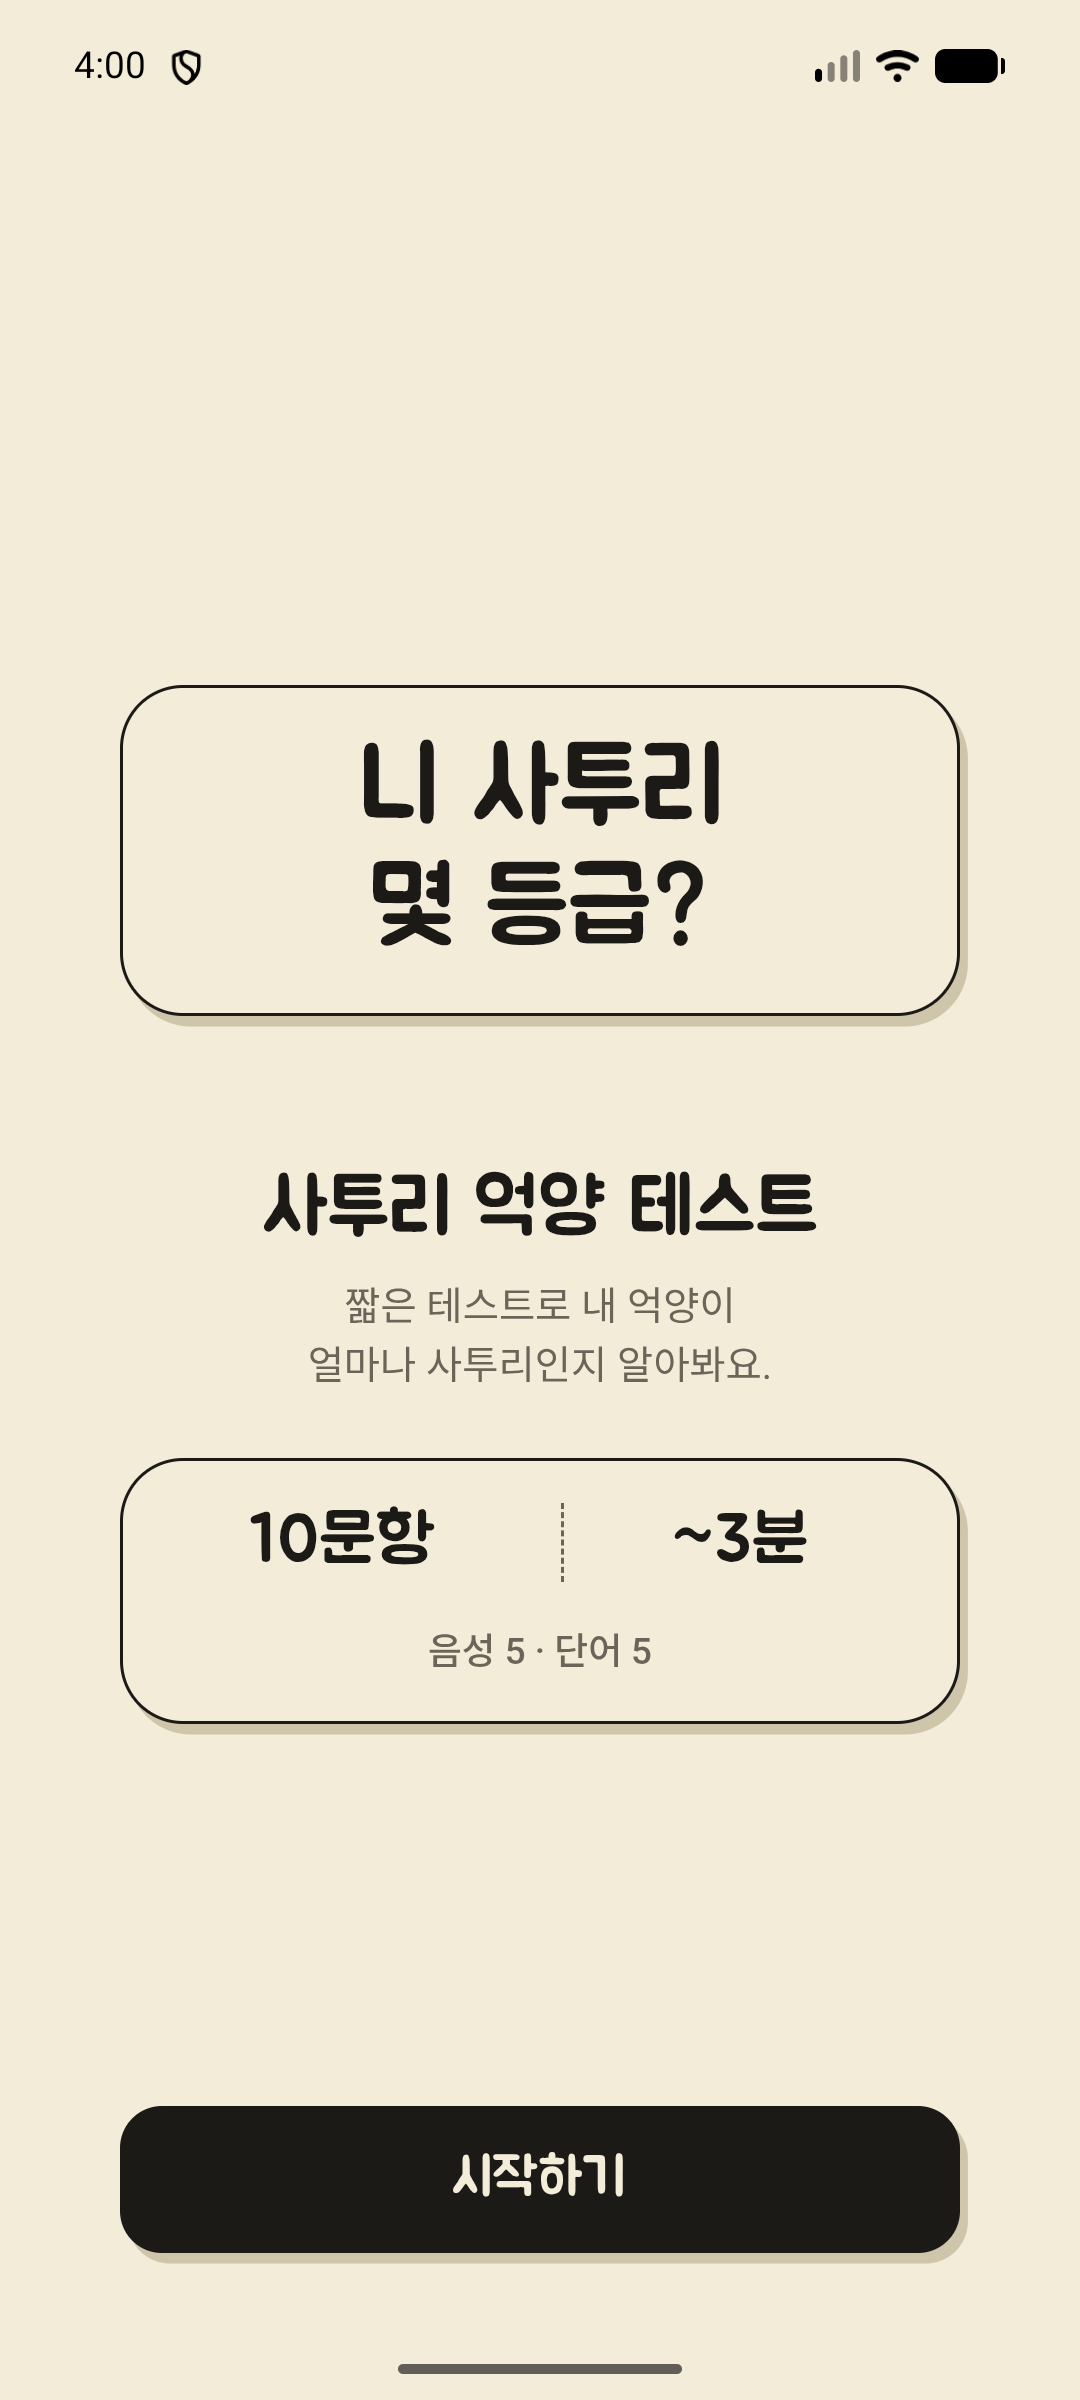
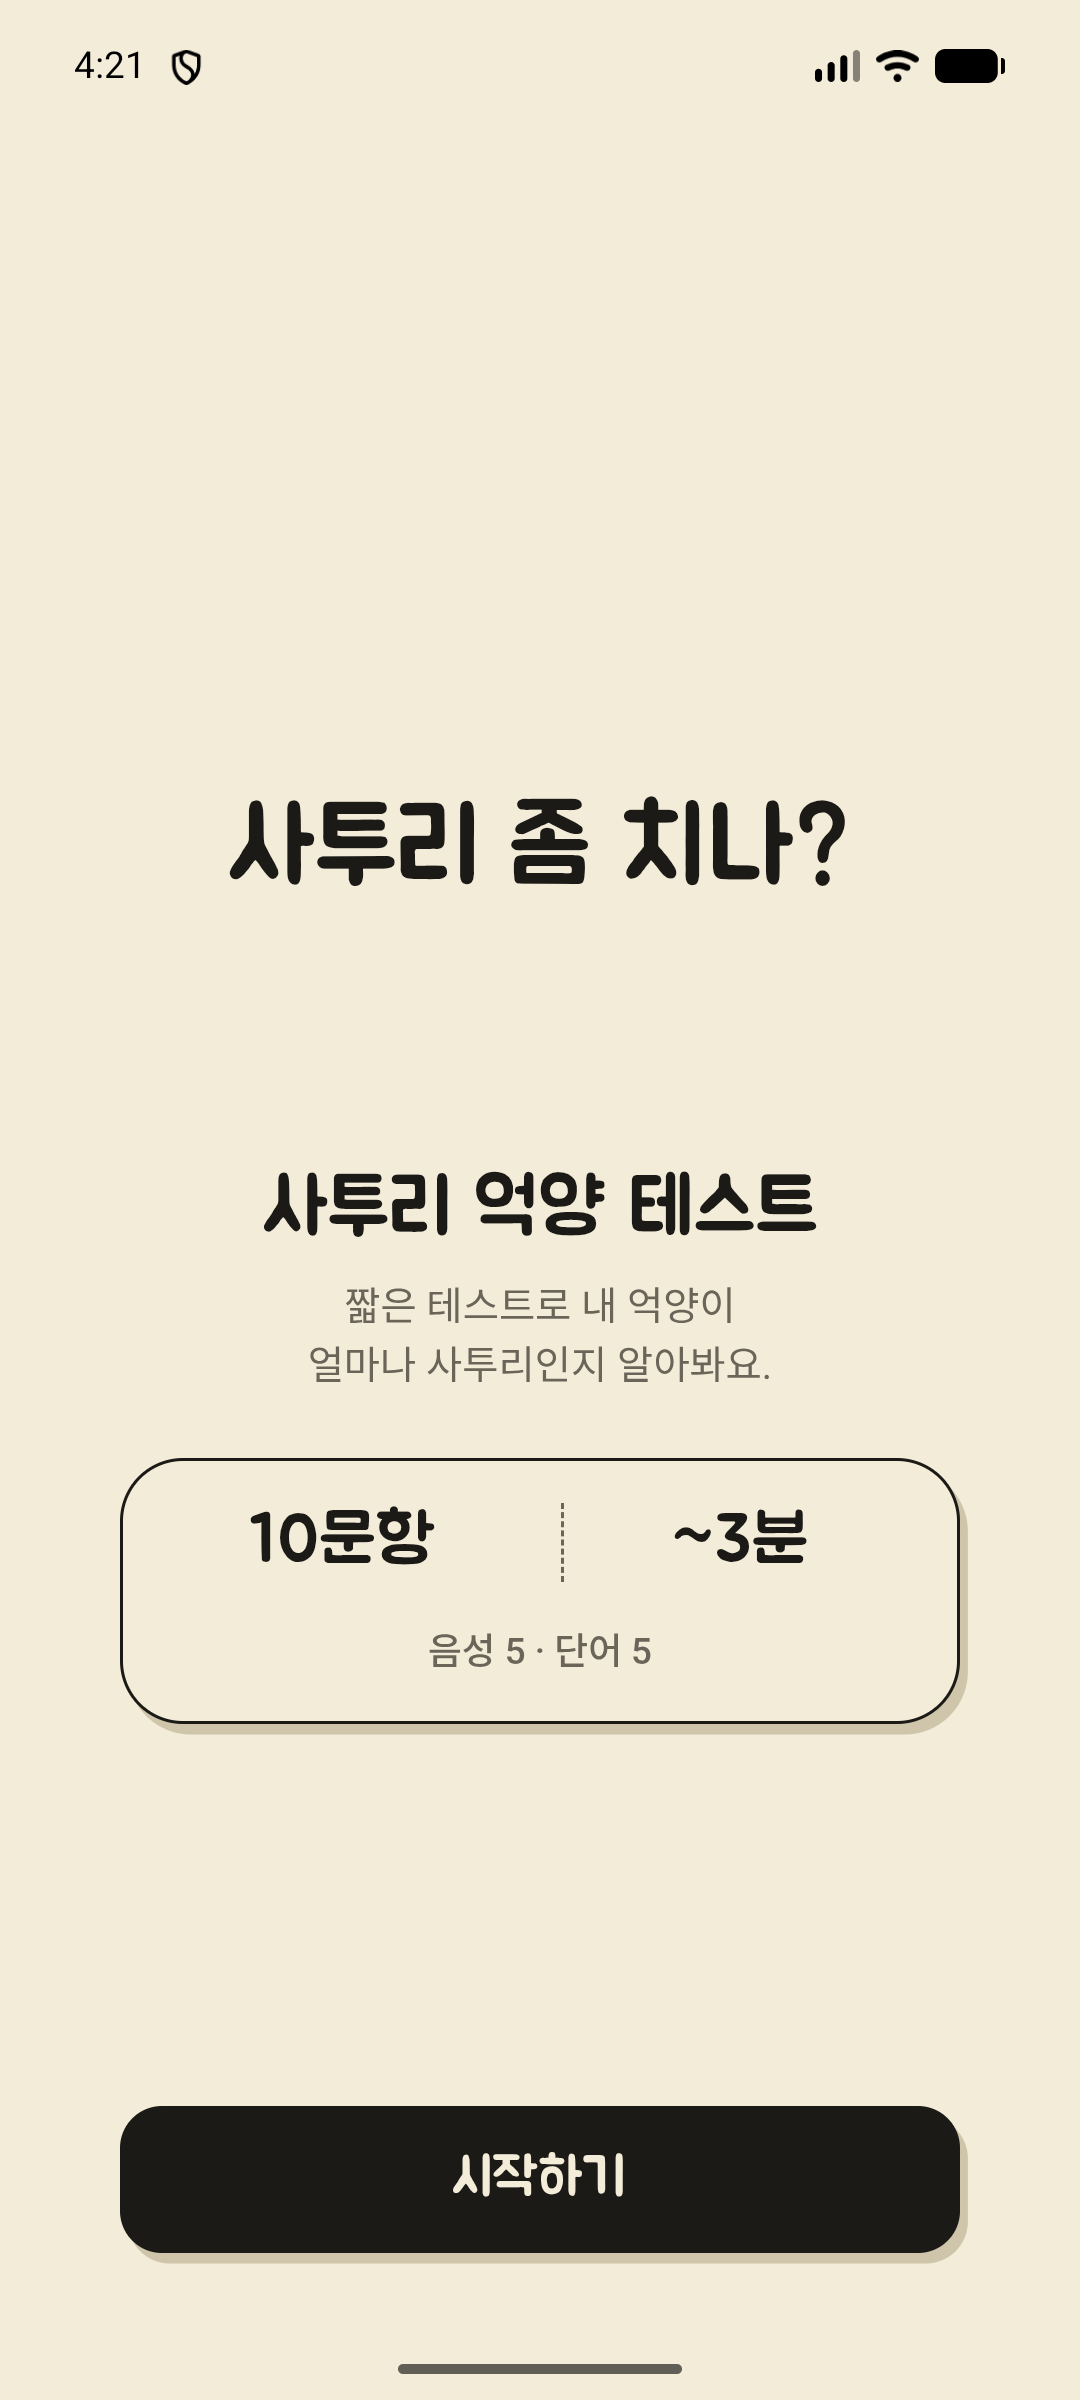
KAN-178 텍스트 히어로 문구·형태 조정 - "사투리 좀 치나?", 종이 조각 테두리 제거, Play 인트로 캡션 교체
- 인트로 히어로 문구 변경, .text-hero에서 테두리·그림자·면 제거(잉크 글자만)
- Play 스크린샷 01-intro 캡션이 화면 문구와 겹쳐 "3분이면 끝나는 사투리 테스트"로 교체
- 캡션 구분자는 슬래시 - Jua에 가운뎃점이 없어 두부로 그려졌다. build.py에 글리프 검사 추가
- 인트로 원본 캡처(Android·iOS) 재촬영, 프레임 재생성

Claude-Session: https://claude.ai/code/session_01Nud2Q8pYYmbEKkf6aeyY5Q

diff --git a/web/src/ui/components.css b/web/src/ui/components.css
@@ -289,7 +289,7 @@
  * 요소가 오르내리지 않는다.
  *
  * 인트로·대기 화면은 그림 대신 `.text-hero`가 든다 (KAN-178). 슬롯 높이를 건드리지 않은
- * 것은 의도다 — 글자 조각이 그림보다 낮아도 아래 제목·카드는 있던 자리에 그대로 남는다.
+ * 것은 의도다 — 글자 한 줄이 그림보다 낮아도 아래 제목·카드는 있던 자리에 그대로 남는다.
  */
 .illustration {
   display: flex;
@@ -307,24 +307,20 @@
 }
 
 /*
- * 그림 자리에 서는 글자 한 줄 (KAN-178). 종이 조각 한 장이다 — 테두리 1.5px·크림 면·오프셋
- * 그림자는 대사 카드(`.prompt-card`)와 같은 값을 쓴다. 이 화면에서 새로 만든 모양이 아니라
- * 이미 있는 종이의 두께를 그대로 빌려 와야 한 화면에 종이가 두 종류로 보이지 않는다.
+ * 그림 자리에 서는 글자 한 줄 (KAN-178). 처음에는 대사 카드와 같은 종이 조각(테두리 1.5px·
+ * 크림 면·오프셋 그림자)에 얹었는데, 한 화면에 종이가 두 장 겹쳐 보였다 — 바로 아래 대사
+ * 카드와 같은 두께라 히어로가 카드의 예고편처럼 읽혔다. 면을 걷어내고 잉크 글자만 남긴다.
  *
  * Jua 40(`--text-display`)은 팔레트에서 가장 큰 글자다. 바로 아래 제목이 30·26이라
  * 이보다 작으면 히어로가 아니라 제목이 둘인 화면이 된다.
  *
- * `keep-all`은 한국어에서 필수다 — 기본값이면 "등급?"이 낱말 가운데서 잘린다. `balance`는
- * 두 줄로 넘어갈 때 줄 길이를 맞춘다("니 사투리 / 몇 등급?"). 지원하지 않는 브라우저는
- * 평범하게 흘려 담을 뿐이라 깨지지 않는다.
+ * `keep-all`은 한국어에서 필수다 — 기본값이면 낱말 가운데서 잘린다. `balance`는 두 줄로
+ * 넘어갈 때 줄 길이를 맞춘다. 지원하지 않는 브라우저는 평범하게 흘려 담을 뿐이라 깨지지
+ * 않는다. 좌우 여백만 남긴 것은 긴 문구가 화면 가장자리에 붙지 않게 하려는 것이다.
  */
 .text-hero {
   margin: 0;
-  padding: var(--space-4) var(--space-6);
-  border: 1.5px solid var(--color-border);
-  border-radius: var(--radius-xl);
-  background: var(--color-card);
-  box-shadow: var(--shadow-prompt);
+  padding: 0 var(--space-6);
   font-family: var(--font-display);
   font-size: var(--text-display);
   font-weight: var(--weight-normal);

diff --git a/web/src/intro/IntroScreen.tsx b/web/src/intro/IntroScreen.tsx
@@ -110,11 +110,11 @@ export function IntroScreen({
       <div className="screen__body">
         {/*
           종이 일러스트(확성기를 든 사람)를 걷어내고 글자를 세웠다 (KAN-178). 그림은 이 앱이
-          무엇을 하는 곳인지 말하지 않았다 — 첫 화면에서 사용자가 알아야 할 것은 "여기서
-          내 사투리 등급이 나온다"이고, 그건 그리는 것보다 적는 편이 빠르다.
+          무엇을 하는 곳인지 말하지 않았다 — 첫 화면은 사용자에게 말을 걸어야 하고, 그건
+          그리는 것보다 적는 편이 빠르다.
         */}
         <div className="illustration illustration--intro">
-          <TextHero>니 사투리 몇 등급?</TextHero>
+          <TextHero>사투리 좀 치나?</TextHero>
         </div>
 
         <div style={{ display: 'flex', flexDirection: 'column', gap: 'var(--space-2)' }}>

diff --git a/web/src/intro/IntroScreen.test.tsx b/web/src/intro/IntroScreen.test.tsx
@@ -126,10 +126,10 @@ describe('IntroScreen — 마이크 게이트 (KAN-56)', () => {
 })
 
 describe('IntroScreen — 텍스트 히어로 (KAN-178)', () => {
-  it('그림 대신 "니 사투리 몇 등급?"이 서고, 제목은 그대로 남는다', () => {
+  it('그림 대신 "사투리 좀 치나?"가 서고, 제목은 그대로 남는다', () => {
     render(<IntroScreen requestWebPermission={permissionStub('granted')} />)
 
-    expect(screen.getByText('니 사투리 몇 등급?')).toBeInTheDocument()
+    expect(screen.getByText('사투리 좀 치나?')).toBeInTheDocument()
     // 히어로는 장식이라 제목을 대신하지 않는다 — 화면 이름은 여전히 h1이 말한다
     expect(screen.getByRole('heading', { level: 1, name: '사투리 억양 테스트' })).toBeInTheDocument()
   })

diff --git a/assets/screenshots/build.py b/assets/screenshots/build.py
@@ -46,7 +46,7 @@ PAPER_SHADOW = (0xCF, 0xC5, 0xAA)  # 오프셋 그림자 (3px 4px 0)
 
 # 화면 id → (헤드라인, 보조 문구). **여기만 고치면 네 규격에 한꺼번에 반영된다.**
 CAPTIONS = {
-    "01-intro": ("내 사투리, 몇 등급?", "3분이면 끝나는 경남 사투리 레벨 테스트"),
+    "01-intro": ("3분이면 끝나는 사투리 테스트", "음성 5 / 단어 5, 계정 없이"),
     "02-recording": ("말해보면 곡선이 그려져요", "억양을 실시간 피치 곡선으로"),
     "03-vocab": ("이 말, 무슨 뜻일까?", "경남 토박이만 아는 단어 문제"),
     "04-result": ("5등급 중 당신은?", "결과 카드로 친구에게 공유"),
@@ -153,10 +153,37 @@ def rounded_mask(w: int, h: int, radius: int, inset: int = 0) -> Image.Image:
     return big.resize((w, h), Image.BOX)
 
 
+def assert_glyphs(text: str) -> None:
+    """Jua에 없는 글자를 잡는다.
+
+    Pillow는 글리프가 없으면 조용히 두부(□)를 그린다 — 검증은 전부 통과하고 스토어에 걸린
+    그림에서만 보인다. 실제로 `음성 5 · 단어 5`의 가운뎃점(U+00B7)이 이렇게 새어 나갔다.
+    Jua는 한글·라틴·숫자와 기본 문장부호만 가진 글꼴이라, 문구를 고칠 때마다 여기서 막는다.
+    """
+    if _JUA_CMAP is None:  # fontTools가 없는 환경에서는 검사를 건너뛴다
+        return
+    missing = sorted({ch for ch in text if ch != " " and ord(ch) not in _JUA_CMAP})
+    if missing:
+        shown = ", ".join(f"{ch!r}(U+{ord(ch):04X})" for ch in missing)
+        raise SystemExit(f"Jua에 없는 글자가 캡션에 있다: {shown} — 문구: {text!r}")
+
+
+def _load_jua_cmap() -> set[int] | None:
+    try:
+        from fontTools.ttLib import TTFont  # 선택 의존성
+    except ImportError:
+        return None
+    return set(TTFont(str(FONT_JUA)).getBestCmap())
+
+
+_JUA_CMAP = _load_jua_cmap() if FONT_JUA.exists() else None
+
+
 def fit_font(text: str, size: int, max_w: float) -> ImageFont.FreeTypeFont:
     """max_w를 넘으면 글자를 줄인다 — 잘린 문구가 스토어에 걸리는 게 최악이다."""
     if not FONT_JUA.exists():
         raise SystemExit(f"Jua 폰트가 없다: {FONT_JUA}")
+    assert_glyphs(text)
     while True:
         font = ImageFont.truetype(str(FONT_JUA), size)
         if font.getlength(text) <= max_w or size <= 16:

diff --git a/docs/wiki/app-icon-assets.md b/docs/wiki/app-icon-assets.md
@@ -220,7 +220,10 @@ xcrun simctl io booted screenshot assets/screenshots/raw/ios/01-intro.png
 - **결과 화면 등급 통일** — Android·iOS 결과 캡처가 서로 다른 등급이면 스토어에서 같은 앱으로 안 읽혀, iOS 쪽을 다시 찍어 둘 다 명예주민으로 맞췄다.
 - **Android 상태바·내비게이션 바는 자르지 않는다** — Play가 허용하고, 자르기 시작하면 기기마다 기준이 갈린다.
 - **iOS 캡처의 서체를 Android와 맞췄다** (2026-09-03) — 녹음 캡처의 대사 "밥 뭇나?"와 타이머만 iOS가 시스템 서체였다. 두 캡처가 스토어에 나란히 서면 같은 앱으로 안 읽히는 자리라 Jua를 번들하고(`ios-port.md` §3) `raw/ios/02-recording.png`를 다시 찍었다. 나머지 셋은 웹 화면이라 처음부터 Jua였다.
-- **인트로·분석 대기 화면의 일러스트를 텍스트 히어로로 갈았다** (2026-09-03) — 오려 낸 종이 그림(확성기 든 사람·계단)이 스토어 캡처 크기로 줄면 선이 뭉개져 무엇을 그린 것인지 읽히지 않았고, 읽히더라도 앱이 무엇을 하는 곳인지는 말하지 않았다. 같은 자리에 Jua 40 잉크 한 줄을 세운다 — 인트로는 `니 사투리 몇 등급?`, 대기 화면은 `분석 중입니다`. 슬롯 높이(192·176)는 그대로라 아래 요소는 움직이지 않고, `raw/{android,ios}/01-intro.png`를 다시 찍어 프레임을 재생성했다.
+- **인트로·분석 대기 화면의 일러스트를 텍스트 히어로로 갈았다** (2026-09-03) — 오려 낸 종이 그림(확성기 든 사람·계단)이 스토어 캡처 크기로 줄면 선이 뭉개져 무엇을 그린 것인지 읽히지 않았고, 읽히더라도 앱이 무엇을 하는 곳인지는 말하지 않았다. 같은 자리에 Jua 40 잉크 한 줄을 세운다 — 인트로는 `사투리 좀 치나?`, 대기 화면은 `분석 중입니다`. 슬롯 높이(192·176)는 그대로라 아래 요소는 움직이지 않고, `raw/{android,ios}/01-intro.png`를 다시 찍어 프레임을 재생성했다.
+- **텍스트 히어로에서 종이 조각을 걷어냈다** (2026-09-03) — 히어로가 대사 카드와 같은 테두리·면·그림자를 쓰니 한 화면에 종이가 두 장 겹쳐, 히어로가 아래 카드의 예고편처럼 읽혔다. 면을 지우고 잉크 글자만 남긴다. 문구도 `니 사투리 몇 등급?`에서 `사투리 좀 치나?`로 바꿨다 — 등급을 먼저 말하는 대신 말을 건다.
+- **Play `01-intro` 캡션이 화면 문구와 겹치지 않게 갈았다** (2026-09-03) — 옛 캡션 `내 사투리, 몇 등급?`이 프레임 안 화면의 히어로와 같은 말을 두 번 했다. `3분이면 끝나는 사투리 테스트` / `음성 5 / 단어 5, 계정 없이`로 바꿔 캡션은 화면이 말하지 않는 것(길이·구성·가입 없음)만 말한다.
+- **Jua에 없는 글자는 `build.py`가 막는다** (2026-09-03) — 새 캡션의 가운뎃점(U+00B7)이 Jua에 없어 두부(□)로 그려졌는데 검증 14개가 전부 통과했다. Pillow는 글리프가 없어도 조용히 그린다. `assert_glyphs()`가 캡션 글자를 cmap과 대조해 죽는다(fontTools가 없으면 건너뛴다). 구분자는 슬래시로 갈았다.
 
 ## 7. 이월
 

diff --git a/docs/wiki/design-tokens.md b/docs/wiki/design-tokens.md
@@ -516,19 +516,21 @@ KAN-148의 AC "텍스트 대비 4.5:1"은 이제 예외 없이 지켜진다.
 ### 텍스트 히어로
 
 화면을 여는 자리에 그림 대신 서는 글자 한 줄이다 (`ui/TextHero.tsx`, `.text-hero`). 인트로
-(`니 사투리 몇 등급?`)와 분석 대기 화면(`분석 중입니다`)이 쓴다 — KAN-178에서 두 화면의 종이
+(`사투리 좀 치나?`)와 분석 대기 화면(`분석 중입니다`)이 쓴다 — KAN-178에서 두 화면의 종이
 일러스트를 걷어낸 자리다. 스토어 캡처 크기로 줄면 오려 낸 선이 뭉개져 무엇을 그린 것인지
 읽히지 않았고, 읽히더라도 앱이 무엇을 하는 곳인지는 말하지 않았다.
 
-모양은 대사 카드(`.prompt-card`)에서 그대로 빌린다 — 1.5px 잉크 테두리, 크림 면, `radius-xl`,
-`shadow-prompt`. 한 화면에 종이가 두 종류로 보이지 않으려면 두께와 그늘이 같아야 한다. 글자는
-`font-display` `text-display`(40) 400이다: 바로 아래 제목이 30·26이라 이보다 작으면 히어로가
-아니라 제목이 둘인 화면이 된다.
+**면이 없다.** 처음에는 대사 카드(`.prompt-card`)의 테두리·크림 면·오프셋 그림자를 그대로
+빌렸는데, 히어로 바로 아래에 같은 두께의 카드가 서니 한 화면에 종이가 두 장 겹쳐 보였다 —
+히어로가 카드의 예고편처럼 읽히는 자리다. 테두리·그림자·면을 다 걷고 잉크 글자만 남긴다.
+남긴 것은 좌우 여백(`space-6`)뿐이고, 긴 문구가 화면 가장자리에 붙지 않게 하는 몫이다.
+글자는 `font-display` `text-display`(40) 400이다: 바로 아래 제목이 30·26이라 이보다 작으면
+히어로가 아니라 제목이 둘인 화면이 된다.
 
 기본값이 `aria-hidden`인 이유는 옆에 있는 h1이 이미 화면 이름을 말하기 때문이다. 장식에 라벨을
 붙이면 스크린 리더가 같은 화면을 두 번 소개한다.
 
-바깥 슬롯(`.illustration--intro` 192 · `--waiting` 176)의 높이는 건드리지 않았다. 글자 조각이
+바깥 슬롯(`.illustration--intro` 192 · `--waiting` 176)의 높이는 건드리지 않았다. 글자 한 줄이
 그림보다 낮아도 아래 제목·카드는 있던 자리에 그대로 남는다.
 
 ## 9. 접근성 최소선 검증
